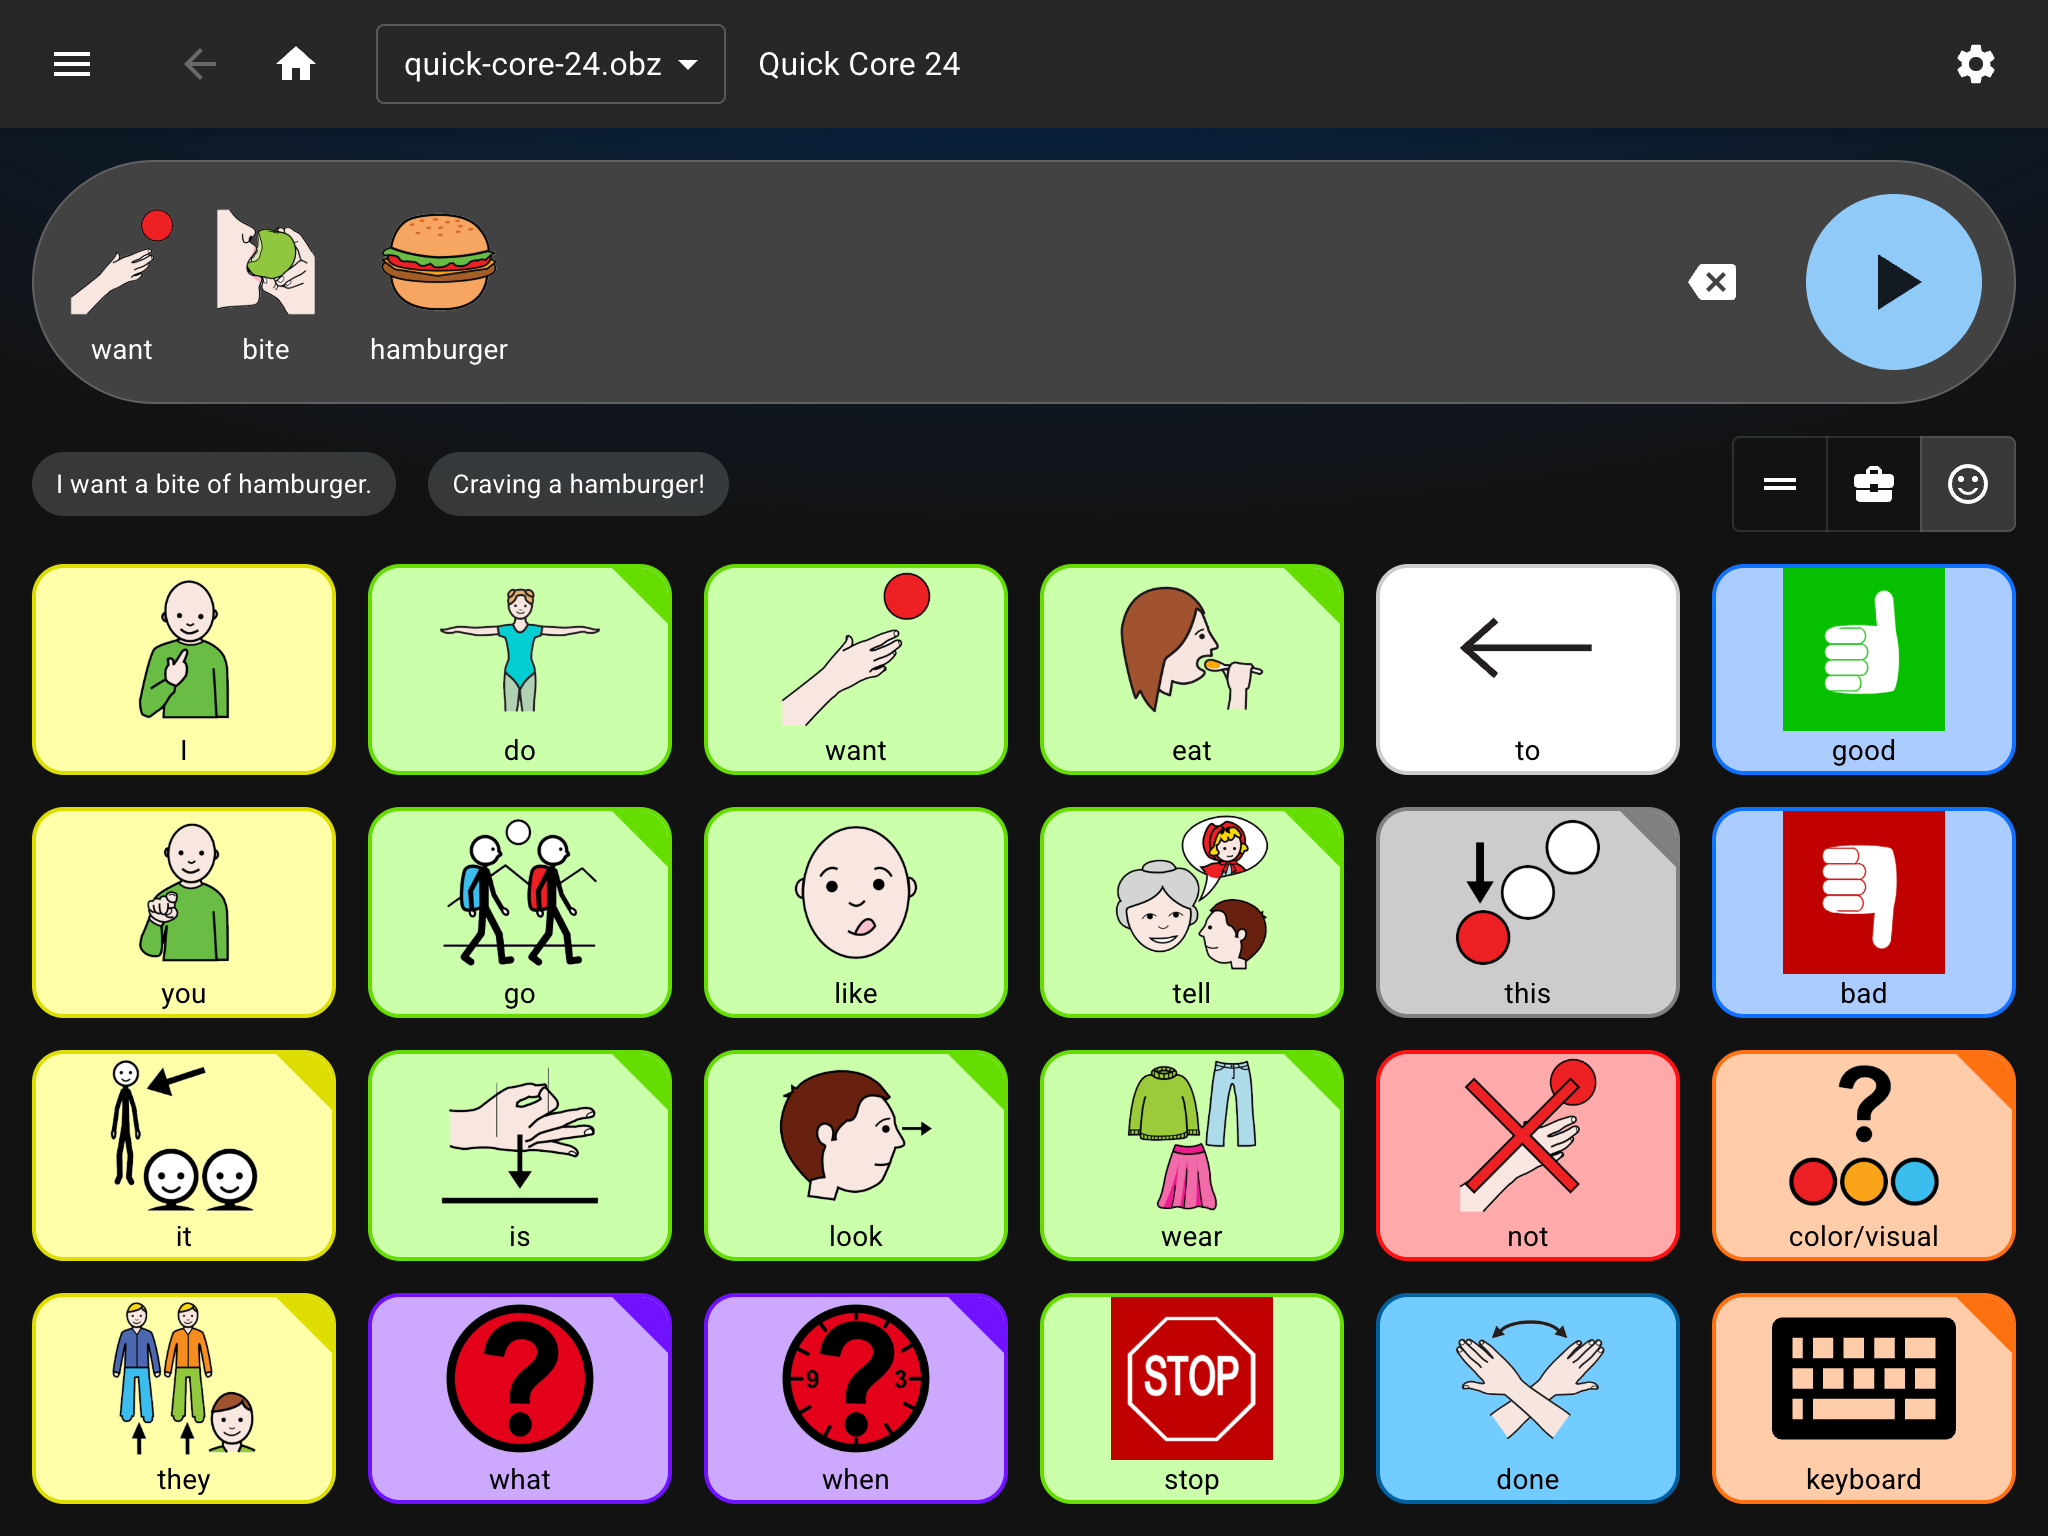
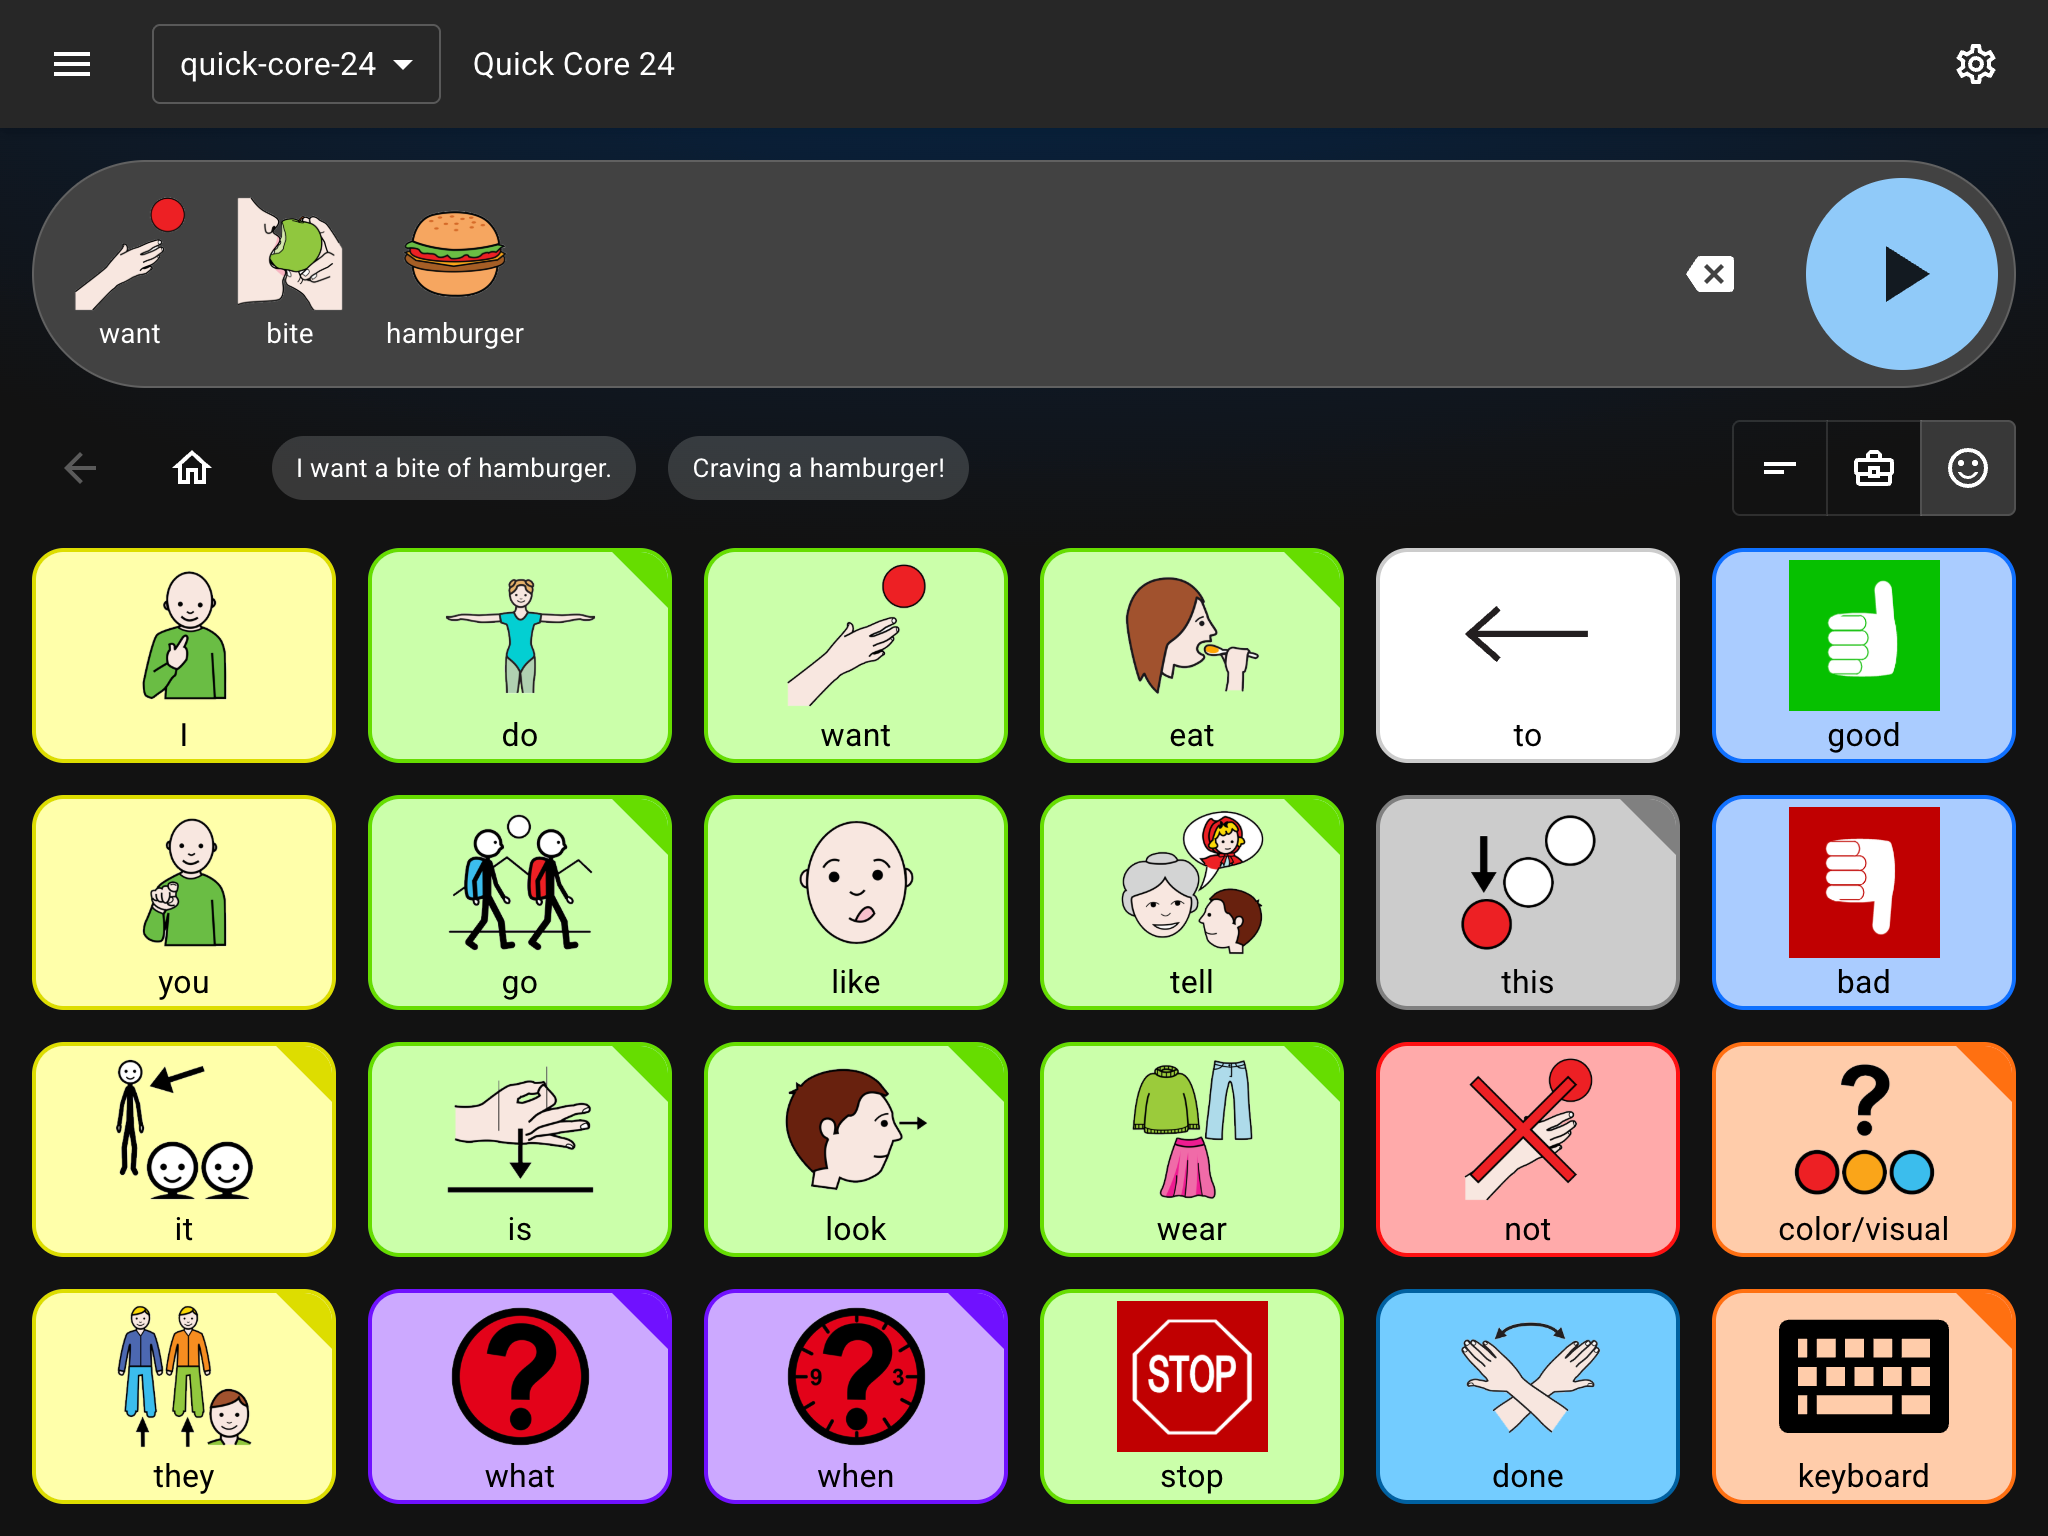
refactor(NavButtons): accept navigation props instead of using useBoard hook (#88)
* refactor(NavButtons): accept navigation props instead of using useBoard hook

* refactor(NavButtons): rename handlers to onBackClick/onHomeClick

- Rename navigateBack prop to onBackClick
- Rename navigateHome prop to onHomeClick
- Add unit tests for NavButtons component
- Update usage in Board.tsx

* refactor(BoardSetSelect): update rendering logic for selected board set name

* refactor(BoardSetSelect): remove unnecessary selectedSet logic and simplify display

* refactor: update screenshot for improved visual representation

diff --git a/src/features/board/components/NavButtons/NavButtons.test.tsx b/src/features/board/components/NavButtons/NavButtons.test.tsx
@@ -1,0 +1,97 @@
+import { describe, expect, test, vi } from "vitest";
+import { render } from "vitest-browser-react";
+import { NavButtons } from "./NavButtons";
+
+describe("NavButtons", () => {
+  test("calls onBackClick when back button is clicked", async () => {
+    const onBackClick = vi.fn();
+    const onHomeClick = vi.fn();
+
+    const screen = await render(
+      <NavButtons
+        canGoBack={true}
+        canGoHome={true}
+        onBackClick={onBackClick}
+        onHomeClick={onHomeClick}
+      />,
+    );
+
+    await screen.getByRole("button", { name: "Back" }).click();
+
+    expect(onBackClick).toHaveBeenCalledOnce();
+    expect(onHomeClick).not.toHaveBeenCalled();
+  });
+
+  test("calls onHomeClick when home button is clicked", async () => {
+    const onBackClick = vi.fn();
+    const onHomeClick = vi.fn();
+
+    const screen = await render(
+      <NavButtons
+        canGoBack={true}
+        canGoHome={true}
+        onBackClick={onBackClick}
+        onHomeClick={onHomeClick}
+      />,
+    );
+
+    await screen.getByRole("button", { name: "Home" }).click();
+
+    expect(onHomeClick).toHaveBeenCalledOnce();
+    expect(onBackClick).not.toHaveBeenCalled();
+  });
+
+  test("disables back button when canGoBack is false", async () => {
+    const screen = await render(
+      <NavButtons
+        canGoBack={false}
+        canGoHome={true}
+        onBackClick={vi.fn()}
+        onHomeClick={vi.fn()}
+      />,
+    );
+
+    await expect
+      .element(screen.getByRole("button", { name: "Back" }))
+      .toBeDisabled();
+    await expect
+      .element(screen.getByRole("button", { name: "Home" }))
+      .toBeEnabled();
+  });
+
+  test("disables home button when canGoHome is false", async () => {
+    const screen = await render(
+      <NavButtons
+        canGoBack={true}
+        canGoHome={false}
+        onBackClick={vi.fn()}
+        onHomeClick={vi.fn()}
+      />,
+    );
+
+    await expect
+      .element(screen.getByRole("button", { name: "Home" }))
+      .toBeDisabled();
+    await expect
+      .element(screen.getByRole("button", { name: "Back" }))
+      .toBeEnabled();
+  });
+
+  test("disables both buttons when navigation is not available", async () => {
+    const screen = await render(
+      <NavButtons
+        canGoBack={false}
+        canGoHome={false}
+        onBackClick={vi.fn()}
+        onHomeClick={vi.fn()}
+      />,
+    );
+
+    await expect
+      .element(screen.getByRole("button", { name: "Back" }))
+      .toBeDisabled();
+    await expect
+      .element(screen.getByRole("button", { name: "Home" }))
+      .toBeDisabled();
+  });
+});

diff --git a/src/features/board/components/NavButtons/NavButtons.tsx b/src/features/board/components/NavButtons/NavButtons.tsx
@@ -1,13 +1,22 @@
-import { useBoard } from "@features/board/context/useBoard";
 import ArrowBackOutlinedIcon from "@mui/icons-material/ArrowBackOutlined";
 import HomeOutlinedIcon from "@mui/icons-material/HomeOutlined";
 import Box from "@mui/material/Box";
 import IconButton from "@mui/material/IconButton";
 import Tooltip from "@mui/material/Tooltip";
 
-export function NavButtons() {
-  const { canGoBack, canGoHome, navigateBack, navigateHome } = useBoard();
+interface NavButtonsProps {
+  canGoBack: boolean;
+  canGoHome: boolean;
+  onBackClick: () => void;
+  onHomeClick: () => void;
+}
 
+export function NavButtons({
+  canGoBack,
+  canGoHome,
+  onBackClick,
+  onHomeClick,
+}: NavButtonsProps) {
   return (
     <Box sx={{ display: "flex", gap: 1 }}>
       <Tooltip title="Go back">
@@ -16,7 +25,7 @@ export function NavButtons() {
             aria-label="Back"
             size="large"
             disabled={!canGoBack}
-            onClick={() => navigateBack()}
+            onClick={onBackClick}
           >
             <ArrowBackOutlinedIcon />
           </IconButton>
@@ -29,7 +38,7 @@ export function NavButtons() {
             aria-label="Home"
             size="large"
             disabled={!canGoHome}
-            onClick={() => navigateHome()}
+            onClick={onHomeClick}
           >
             <HomeOutlinedIcon />
           </IconButton>

diff --git a/src/features/board/components/Board/Board.tsx b/src/features/board/components/Board/Board.tsx
@@ -14,6 +14,10 @@ export function Board() {
   const {
     board,
     activateButton,
+    canGoBack,
+    canGoHome,
+    navigateBack,
+    navigateHome,
     isSuggestionsEnabled,
     message,
     isPlayingMessage,
@@ -53,7 +57,12 @@ export function Board() {
       />
 
       <Stack direction="row" justifyContent="space-between" spacing={2} px={2}>
-        <NavButtons />
+        <NavButtons
+          canGoBack={canGoBack}
+          canGoHome={canGoHome}
+          onBackClick={navigateBack}
+          onHomeClick={navigateHome}
+        />
 
         {isSuggestionsEnabled && (
           <SuggestionBar

diff --git a/src/features/board/components/BoardSetSelect/BoardSetSelect.tsx b/src/features/board/components/BoardSetSelect/BoardSetSelect.tsx
@@ -12,8 +12,8 @@ interface BoardSetSelectProps {
 }
 
 export function BoardSetSelect({ boardSets, boardSetId }: BoardSetSelectProps) {
-  const { board } = useBoard();
   const navigate = useNavigate();
+  const { board } = useBoard();
 
   return (
     <Box sx={{ display: "flex", alignItems: "center", overflow: "hidden" }}>
